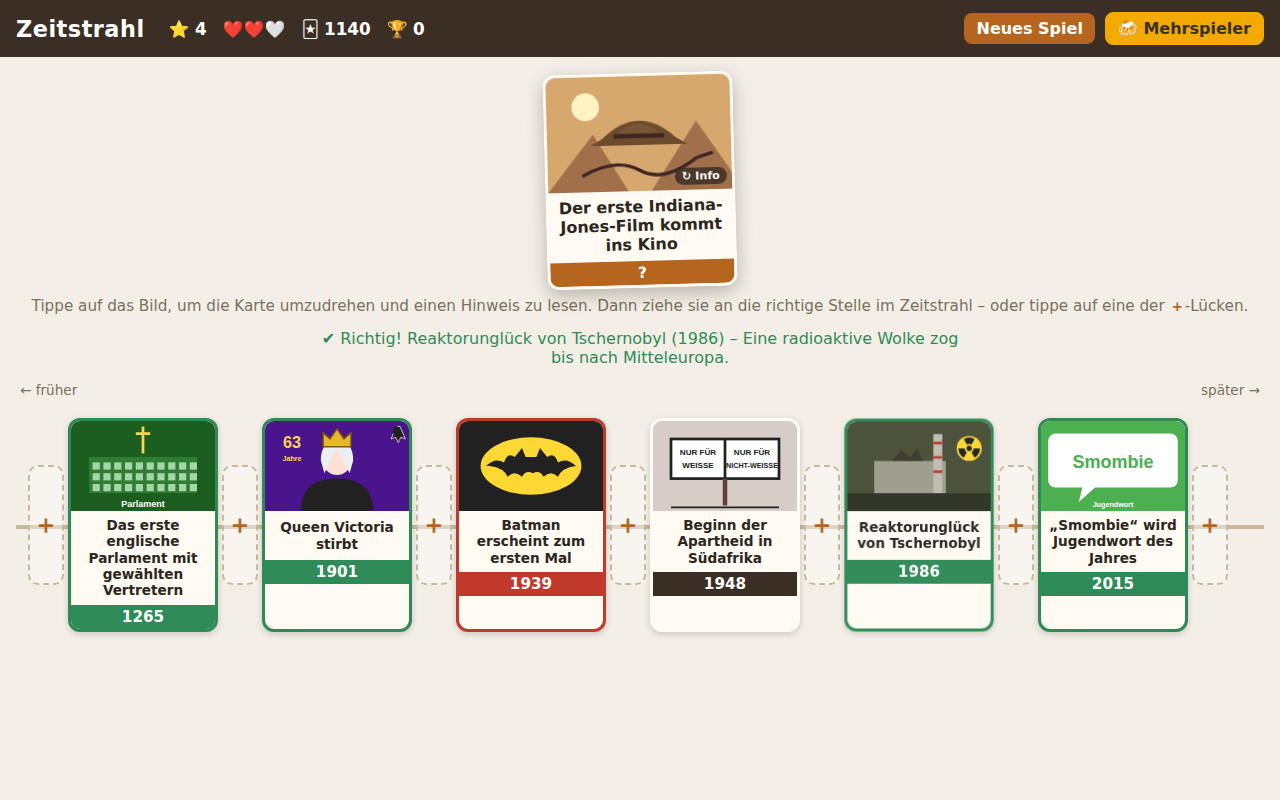
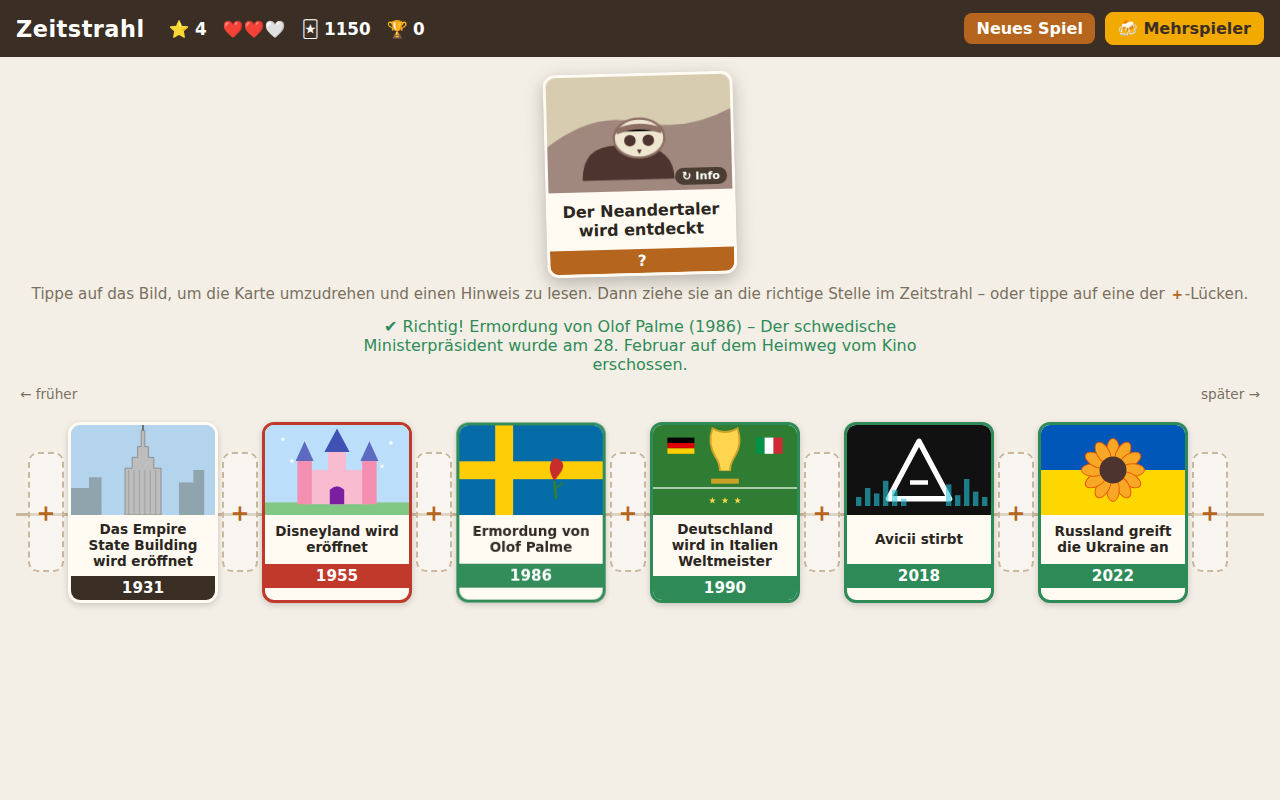
Add 10 events from 2025
Claude-Session: https://claude.ai/code/session_01Nr3EjojewoDudnqC8Cy7nP

diff --git a/events.js b/events.js
@@ -1118,6 +1118,16 @@ const EVENTS = [
   { id: "charlie_kirk", title: "Charlie Kirk wird erschossen", year: 2025, image: "img/charlie_kirk.svg", fact: "Der rechtskonservative US-Aktivist wurde bei einem Auftritt an einer Universität in Utah getötet.", hint: "Ein bekannter rechtskonservativer US-Aktivist wird bei einem Auftritt an einer Universität erschossen." },
   { id: "lecornu", title: "Sébastien Lecornu tritt nach 14 Stunden zurück", year: 2025, image: "img/lecornu.svg", fact: "Kurz nach der Vorstellung seines Kabinetts trat der französische Premierminister zurück – wenige Tage später wurde er erneut ernannt.", hint: "Ein französischer Premierminister tritt nur rund 14 Stunden nach der Vorstellung seiner Regierung zurück." },
   { id: "jw_dascrazy", title: "„das crazy“ wird Jugendwort des Jahres", year: 2025, image: "img/jw_dascrazy.svg", fact: "Kurze Reaktion auf alles, was einen erstaunt oder worauf man nichts zu sagen weiß.", hint: "Eine kurze Reaktion auf alles Erstaunliche wird Jugendwort des Jahres." },
+  { id: "btw2025", title: "Vorgezogene Bundestagswahl: Union siegt, AfD wird Zweiter", year: 2025, image: "img/btw2025.svg", fact: "Nach dem Ampel-Aus wurde die Union stärkste Kraft; die AfD verdoppelte sich auf über 20 Prozent.", hint: "Nach dem Bruch der Ampel wird vorzeitig ein neuer Bundestag gewählt – die AfD wird zweitstärkste Kraft." },
+  { id: "oval_office", title: "Eklat im Oval Office: Trump und Vance gegen Selenskyj", year: 2025, image: "img/oval_office.svg", fact: "Vor laufenden Kameras warfen Trump und Vizepräsident Vance dem ukrainischen Präsidenten Undankbarkeit vor – das Treffen platzte.", hint: "Ein Treffen im Weißen Haus eskaliert vor laufenden Kameras – der US-Präsident beschimpft den ukrainischen Präsidenten." },
+  { id: "sondervermoegen", title: "Bundestag lockert die Schuldenbremse für Milliarden-Investitionen", year: 2025, image: "img/sondervermoegen.svg", fact: "Noch der alte Bundestag beschloss ein Sondervermögen von 500 Milliarden Euro für Infrastruktur und Ausnahmen für die Verteidigung.", hint: "Mit einer Grundgesetzänderung macht Deutschland Hunderte Milliarden Euro für Infrastruktur und Bundeswehr frei." },
+  { id: "myanmar", title: "Schweres Erdbeben in Myanmar", year: 2025, image: "img/myanmar.svg", fact: "Das Beben der Stärke 7,7 tötete Tausende Menschen; selbst in Bangkok stürzte ein Hochhaus ein.", hint: "Ein schweres Erdbeben erschüttert ein Land in Südostasien – sogar im Nachbarland stürzt ein Hochhaus ein." },
+  { id: "psg_cl2025", title: "PSG gewinnt erstmals die Champions League", year: 2025, image: "img/psg_cl2025.svg", fact: "Mit einem 5:0 gegen Inter Mailand holte Paris im Finale in München den ersten Henkelpott der Vereinsgeschichte.", hint: "Ein Pariser Klub gewinnt mit einem Kantersieg im Finale erstmals die Champions League." },
+  { id: "zwoelftagekrieg", title: "Der Zwölf-Tage-Krieg zwischen Israel und Iran", year: 2025, image: "img/zwoelftagekrieg.svg", fact: "Israel griff iranische Atom- und Militäranlagen an, die USA bombardierten die Atomanlage Fordo – dann folgte eine Waffenruhe.", hint: "Israel und der Iran liefern sich einen kurzen Krieg, in den auch die USA mit Bombenangriffen eingreifen." },
+  { id: "geiseln_frei", title: "Gaza-Waffenruhe: Die letzten lebenden Geiseln kommen frei", year: 2025, image: "img/geiseln_frei.svg", fact: "Nach 738 Tagen ließ die Hamas die 20 noch lebenden israelischen Geiseln frei; Israel entließ fast 2.000 palästinensische Gefangene.", hint: "Nach über zwei Jahren Gefangenschaft kommen die letzten lebenden israelischen Geiseln aus dem Gazastreifen frei." },
+  { id: "mueller_abschied", title: "Thomas Müller verlässt den FC Bayern", year: 2025, image: "img/mueller_abschied.svg", fact: "Nach 25 Jahren im Verein und 13 Meistertiteln wechselte die Klub-Legende in die USA zu den Vancouver Whitecaps.", hint: "Nach 25 Jahren verlässt eine Münchner Vereinslegende den Klub und wechselt nach Nordamerika." },
+  { id: "hulk_hogan", title: "Hulk Hogan stirbt", year: 2025, image: "img/hulk_hogan.svg", fact: "Die Wrestling-Legende mit Bandana und blondem Schnauzbart wurde 71 Jahre alt.", hint: "Die Wrestling-Legende mit Bandana und blondem Schnauzbart stirbt." },
+  { id: "armani", title: "Giorgio Armani stirbt", year: 2025, image: "img/armani.svg", fact: "Der italienische Modeschöpfer, „Re Giorgio“, starb mit 91 Jahren in Mailand.", hint: "Ein weltberühmter italienischer Modeschöpfer stirbt mit 91 Jahren in Mailand." },
   { id: "wm2026", title: "Erste Fußball-WM mit 48 Mannschaften", year: 2026, image: "img/wm2026.svg", fact: "Das Turnier wurde erstmals in drei Ländern ausgetragen: USA, Kanada und Mexiko." },
   { id: "klopp", title: "Jürgen Klopp wird Bundestrainer", year: 2026, image: "img/klopp.svg", fact: "Nach dem WM-Aus übernahm Klopp die Nationalmannschaft mit einem Vertrag bis zur WM 2030.", hint: "Nach dem WM-Aus übernimmt der frühere Liverpool- und Dortmund-Trainer die Nationalmannschaft." },
   { id: "swiftkelce", title: "Taylor Swift und Travis Kelce heiraten", year: 2026, image: "img/swiftkelce.svg", fact: "Die Hochzeit fand am 3. Juli 2026 im Madison Square Garden in New York statt.", hint: "Popstar Taylor Swift und Football-Profi Travis Kelce heiraten im Madison Square Garden." },
